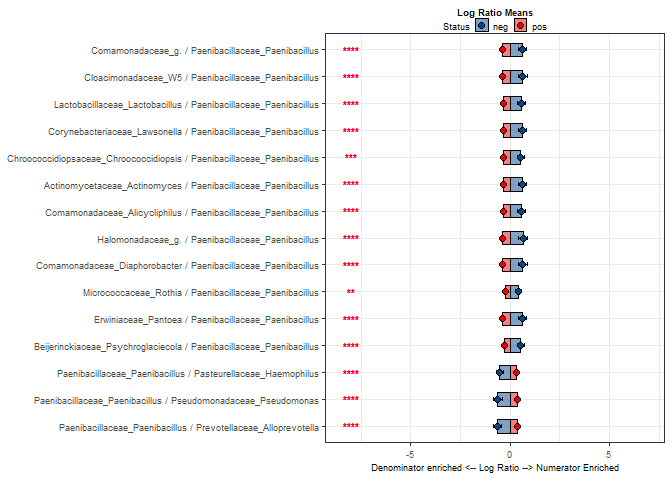
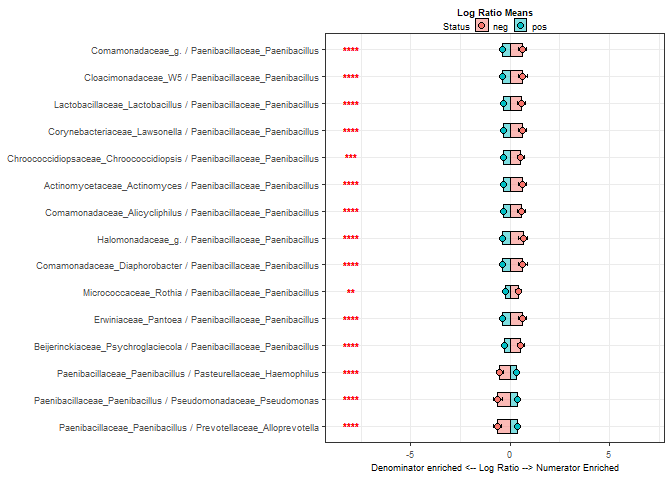
Updated Markdown

diff --git a/README.md b/README.md
@@ -117,10 +117,12 @@ message("\n Number of OTUs remaining = ",ncol(y) )
 #>  Number of OTUs remaining = 63
 ```
 
-## Aggregate data to a the Genus Level
+## Aggregate data to the Genus Level
 
-This step is optional as any level can be tested (i.e. Phylum,Class,
-Order, etc..) as well as the overall OTU composition
+This step is in general optional as any level can be tested
+(i.e. Phylum,Class, Order, etc..) as well as the overall OTU
+composition. Here we test at the genus level which balances the
+trade-off between interpretability and computational time.
 
 ``` r
 ## Aggregate to Genus
@@ -165,10 +167,10 @@ lrs = calcLogRatio(dat)
 #> Joining, by = "f"
 #> Joining, by = "f"
 #>    user  system elapsed 
-#>    0.14    0.00    0.14
+#>    0.14    0.01    0.25
 ```
 
-## Visulaize Dataset
+## Visualize Dataset using first two dimensions of PCA
 
 ``` r
 rt = prcomp(lrs[,-1])
@@ -192,6 +194,10 @@ ggplot(coords.df,aes(PC1,PC2,col = Group))+
 
 ### Define Class Label Permutations for computing the null distribution
 
+\*\* Note more restricted permutation design can be added here as
+required by the experimental design (e.g to use with strata for nested
+designs). Review the ‘permute’ R package documentation for more detail.
+
 ``` r
 ## Set seed for reproducibility
 set.seed(08272008)
@@ -205,7 +211,7 @@ seeds = data.frame(t(seeds))
 
 ### Apply SelEnergyPerm to compute test statistic and idenfity key taxa
 
-*Note::* Since selEnergyPerm uses a forward greedy optimal feature
+*Note:* Since selEnergyPerm uses a forward greedy optimal feature
 selection approach there may be some variation in the exact logratios
 returned between machines. This can be caused by an accumulation of
 numerical errors and may vary from machine to machine.
@@ -324,7 +330,7 @@ system.time({
   }
 })
 #>    user  system elapsed 
-#>  428.10    4.09  417.53
+#>  423.50    3.86  416.38
 ```
 
 ## Visualize SelEnergyPerm Association Test Results
@@ -455,9 +461,6 @@ ggplot(rp,aes(taxa,log_ratio,fill  = Status,label = p.adj.signif))+
   geom_text(nudge_y = 1,size = 3,fontface = "bold",y = -8,col = "red" )+
   scale_y_continuous(limits = c(-8.5,7))+
   ylab("Denominator enriched <-- Log Ratio --> Numerator Enriched")+
-  #geom_hline(yintercept = 0)+
-  ggsci::scale_fill_lancet()+
-  ggsci::scale_color_lancet()+
   theme(legend.position = "top",plot.title = element_text(size = 7,hjust = .5,face = "bold"),
         #plot.margin = margin(0.5, 0.5, 0.5, 0.5),
         axis.title = element_text(size = 7),
@@ -491,7 +494,7 @@ E(g)$weight = if_else((imp.df$Imp)<0,0,(imp.df$Imp))
 w_degree  = strength(g,mode = "total")
 plot(g,layout = igraph::layout.kamada.kawai,
      vertex.label.cex = .65,
-     vertex.size = igraph::strength(g,mode = "all")*.5+3,
+     vertex.size = igraph::strength(g,mode = "all")*.15+3,
      edge.curved = .2,
      edge.arrow.size = .25)
 ```
